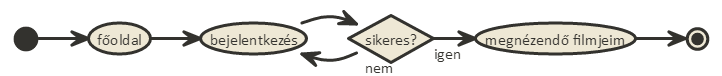
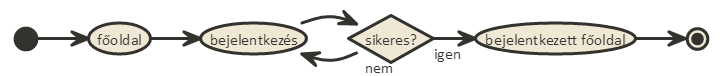
bead 3

Changed region(s): [[0.6704, 0.4474, 0.8837, 0.6316]]

diff --git a/README.md b/README.md
@@ -3,29 +3,27 @@
 ####Szőke Roland
 ####RB3KOR
 
-#Movie5
+#MovieZ
 
 ##Rövid leírás
-Az projekt célja egy olyan webes alkalmazás készítése, mely felhasználóbarátan segíti a film fanatikusokat a tapasztalataik rendszerezésében filmkeről, színészekről vagy rendezőkről.
-Középpontban szerepel a regisztrált felhasználók profilja, amit folyamatosan módosítanak az újjonnan szerzett filmes tapasztalataikkal.
+Az projekt célja egy olyan webes alkalmazás készítése, mely felhasználóbarátan segíti a film fanatikusokat filmek, szinészek, rendezők nyilvántartásában.
 
 ##Követelményanalízis
 ------
 
 ###Funkcionális követelmények
-* Vendégként a főoldalon a regisztráció fogadjon, rövid oldal ismertetővel, ingyen sörrel.
+* Vendégként a főoldalon lehetőségem nyíljon a regisztrációra.
+* Vendégként a főoldalon a legnépszerűbb filmek stílus szerinti kategóriákra bontva fogadjon.
 * Vendégként szeretnék a filmek, szinészek, rendezők között szabadon böngészni.
-* Vendégként szeretnék részletes leírásokat megtekinteni.
+* Vendégként szeretnék részletes leírásokat megtekinteni mind filmekről, szinészekről és rendezőkről.
 * Vendégként szeretnék filmeket, szinészeket, rendezőket keresni.
 * Vendégként szeretnék tudni regisztrálni az oldalra.
 
 * Felhasználóként szeretnék tudni bejelentkezni az oldalra.
-* Felhasználóként szeretném tudni a profiladataimat szerkeszteni.
 * Felhasználóként szeretnék új filmeket, szinészeket vagy rendezőket beküldeni, amennyiben még nem létezik létrehozott oldal nekik.
-* Felhasználóként szeretném a filmeket a "Megnézendő" listámhoz adni.
-* Felhasználóként szeretném a megtekintett filmeimet, ismert szinészeket, rendezőket külön listában rendszerezni, értékelni, rövid kritikát/észrevétel fűzni hozzájuk, kedvencekhez csatolni.
-
-* Moderátorként szeretném tudni megerősíteni a beküldött, az oldalon még nem szereplő szinészeket, filmeket vagy rendezőket.
+* Felhasználóként szeretnék meglévő filmeket szerkeszteni.
+* Felhasználóként szeretnék meglévő filmeket törölni.
+* Felhasználóként szeretnék minden olyan funkcióhoz hozzáférni, amihez a vendégek tudnak.
 
 ###Nem funkcionális követelmények
 * Felhasználóbarát, ergonomikus elrendezés és kinézet.
@@ -39,8 +37,7 @@ Középpontban szerepel a regisztrált felhasználók profilja, amit folyamatosa
 
 ###Szerepkörök
 * vendég: filmek, rendezők, szinészek bengőszése és megtekintése
-* felhasználó: a vendég szerepkörén túl képes új filmeket, rendezőket, szinészeket beküldeni, saját listába rendezni a már meglévőket, megjegyzéseket fűzni hozzájuk
-* moderátor: a felhasználó szerepkörén túl képes megerősíteni beküldött filmeket, szinészeket vagy rendezőket
+* felhasználó: a vendég szerepkörén túl képes új filmeket, rendezőket, szinészeket beküldeni, filmeket szerkeszteni vagy törölni
 
 ###Használati esetek
 ![Használati eset diagram](images/hasznalati.png)
@@ -65,51 +62,48 @@ Publikus:
         * Megtekintés
 - Belépés
 - Regisztráció
-- Keresés
 
 Felhasználói:
 
-- Kilépés
-- Profiladatok
-    + Profiladatok szerkesztése
+- Főoldal
+- Böngészés
+    + Filmek
+        * Megtekintés
+            - Szerkesztés
+            - Törlés
+    + Szinészek
+        * Megtekintés
+    + Rendezők
+        * Megtekintés
 - Beküldés
     + Film
     + Szinész
     + Rendező
-- Kedvencek
-    + Filmek
-    + Szinészek
-    + Rendezők
-- Megnézendő filmek
-- Megtekintett filmek
-
-Moderátor:
-- Beküldések megtekintése
+- Kilépés
 
 ###Végpontok
 * GET /: főoldal
 * GET /login: bejelentkező oldal
 * POST /login: bejelentkezési adatok felküldése
-* GET /profile: profiladatok
-* GET /profile/change: profiladatok módosítása, űrlap megjelenítése
-* POST /profile/change: profiladatok módosítása, adatok küldése
-* GET /movies: film lista
-* GET /actors: szinész lista
-* GET /directors: rendező lista
+* GET /logout: kijelentkezés
+* GET /register: regisztráló oldal
+* POST /register: regisztráló adatok felküldése
+* GET /movies: film lista, keresés
+* GET /actors: szinész lista, keresés
+* GET /directors: rendező lista, keresés
 * GET /movies/:id: film megtekintése
 * GET /actors/:id: szinész megtekintése
 * GET /directors/:id: rendező megtekintése
 * GET /movies/create: új film felvitele, űrlap megjelenítése
 * POST /movies/create: új film felvitele, adatok küldése
+* GET /movies/:id/edit: film szerkesztése, űrlap megjelenítése
+* POST /movies/:id/edit: film szerkesztése, adatok küldése
+* GET /movies/:id/delete: film törlése
 * GET /actors/create: új szinész felvitele, űrlap megjelenítése
 * POST /actors/create: új szinész felvitele, adatok küldése
 * GET /directors/create: új rendező felvitele, űrlap megjelenítése
 * POST /directors/create: új rendező felvitele, adatok küldése
-* GET /favorites/movies: kedvenc filmek
-* GET /favorites/actor: kedvenc szinészek
-* GET /favorites/directors: kedvenc rendezők
-* GET /seen/movies: látott filmek
-* GET /tosee/actor: megnézendő filmek
+
 
 ###Oldalvázlat
 ![Főoldal](images/Main.jpg)
@@ -118,3 +112,43 @@ Moderátor:
 
 ###Adatmodell
 ![Adatmodell](images/adatmodell.png)
+
+##Progresszív fejlesztése kliensoldali JavaScript segítségével
+------
+###Alapkoncepció
+Kliensoldali JavaScript kódok írása, melyek nélkül az alkalmazás továbbra is működőképes, de meglétükkel az alkalmazás használata kényelmesebb, gyorsabb, felhasználóbarátabb
+
+###Funkciók
+* Ajax funkciók
+    + Bejelntkezés (login)
+    + Kijelntkezés (logout)
+    + Regisztrálás (register)
+    + Film törlése (delete)
+* Főoldali dinamikus js óra
+* Főoldali ablakok becsukása/kinyitása
+
+###Érintett fájlok
+* public/scripts/clock.js
+* public/scripts/delete.js
+* public/scripts/logout.js
+* public/scripts/main.js
+* public/scripts/popup_register.js
+* public/scripts/popup_login.js
+
+###Rövid leírás
+Bejelentkezés/regisztrálás ajaxos megvalósítása egy popup ablakkal lett megoldva. Az adott js fájlok bekapcsolás melett az adott linkre kattintva átirányítás hejett egy popup ablak várja a from kitöltését, submit után újrageneráljuk a felső navigációs csíkot.
+
+##Tesztek
+------
+###IDE
+* Selinium IDE használata a létrehozott tesztekre mozzilával lehetséges
+* bővítmény telepítése: https://addons.mozilla.org/hu/firefox/addon/selenium-ide/
+* futtatás után Ctrl+O kombinációval megnyithatók a létrehozott tesztek, amiket a tests mappában találunk meg
+
+###Autómatikus tesztek
+* Bejelentkezésre írt teszt (login_test.html)
+* Kijelentkezésre írt teszt (logout_test.html)
+* Film beküldésére írt teszt (nem_movie_test.html)
+* Film törlésére írt teszt (delete_movie_test.html)
+
+
